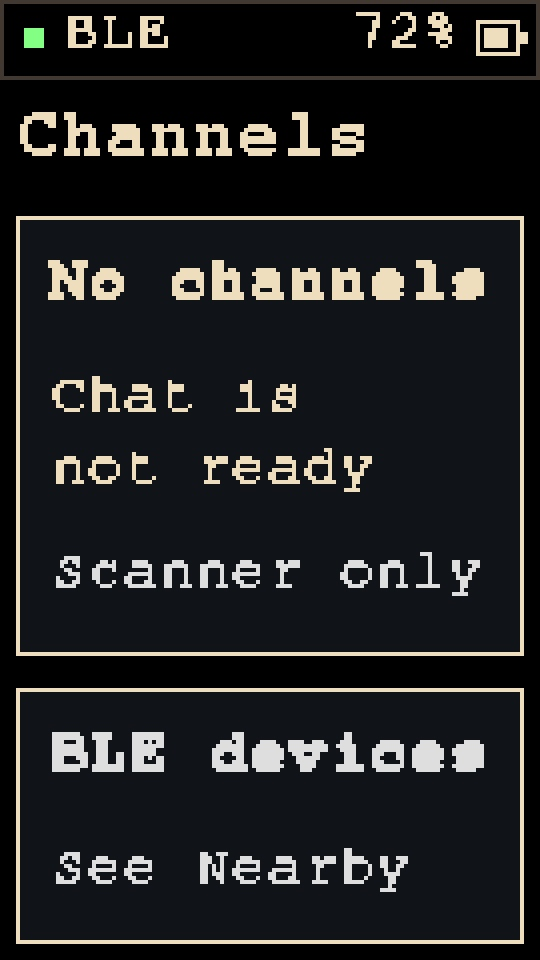
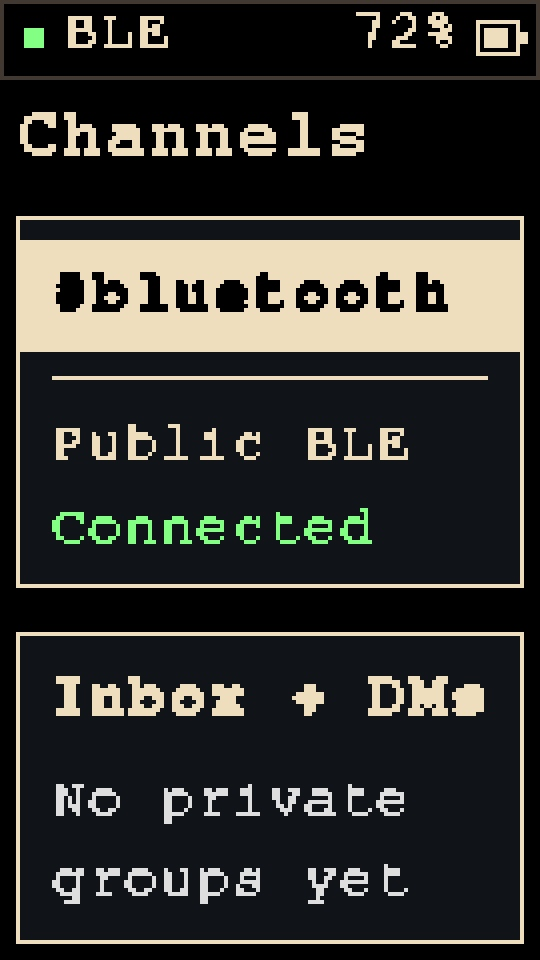
docs: refresh device screen previews from live UI drawing code
- Restore the preview harness after mesh and framebuffer integration.
- Export updated JPEGs with clearly simulated data and a reproducible macOS script.
- Show the current inbox, public channel, bot controls and diagnostics layouts.

Changed region(s): [[0.0296, 0.25, 0.9778, 0.9688]]

diff --git a/test/ui_preview.cpp b/test/ui_preview.cpp
@@ -2,6 +2,11 @@
 #include <cassert>
 #include <fstream>
 namespace stick {
+bool transportReady(){return true;}
+size_t transportLinks(){return 1;}
+uint32_t transportDrops(){return 0;}
+const char* transportStatus(){return "Connected";}
+bool clockRtc(){return true;}
 bool scannerActive() { return true; }
 bool scannerFault() { return false; }
 uint32_t scannerDrops() { return 2; }
@@ -14,6 +19,10 @@ int main(int argc, char** argv) {
   Observation value{};
   std::strcpy(value.address,"AA:BB:CC:DD:EE:FF");std::strcpy(value.name,"Test phone");
   value.rssi=-64;value.network=Network::Mainnet;value.seenAt=1000;peers.observe(value);
+  Identity identity;
+  auto entropy=[](void* out,size_t n){for(size_t i=0;i<n;++i)static_cast<uint8_t*>(out)[i]=uint8_t(i+17);};
+  assert(identity.begin(entropy));mesh().begin(identity,entropy,[](wire::Bytes,uint16_t,uint16_t){return true;});
+  mesh().tick(3000,1800000000000ULL);assert(mesh().sendText("Hello from the Stick"));
   beginUi();battery=72;voltage=4000;
   const Screen pages[]={Screen::Dashboard,Screen::Peers,Screen::Channels,Screen::Messages,Screen::Bot,Screen::Settings,Screen::Splash,Screen::Brightness,Screen::About,Screen::Battery,Screen::Diagnostics};
   const char* names[]={"01-dashboard","02-nearby-peers","03-channels","04-channel-messages","05-infobot","06-settings","07-splash","08-brightness","09-about","10-battery","11-diagnostics"};

diff --git a/docs/screens/README.md b/docs/screens/README.md
@@ -2,7 +2,7 @@
 
 Default language: **English (en-US)**. These software renders come from the current UI drawing calls, pinned FreeMono font bitmaps, and simulated observations/battery values. They are not photographs, device screenshots, or evidence of Bitchat messaging compatibility. The lightweight display fake approximates hardware rendering; confirm the final appearance on the Plus2.
 
-Individual JPEGs: 540 × 960 pixels, a 4× nearest-neighbor enlargement of the 135 × 240 layout. The overview is 2240 × 1110 pixels. Text intentionally retains the pixel grid.
+Individual JPEGs: 540 × 960 pixels, a 4× nearest-neighbor enlargement of the 135 × 240 layout. The overview is 4480 × 2220 pixels. Text intentionally retains the pixel grid.
 
 The current revision restores grouped panels, the green Nearby card and left border, a live-state header square and battery icon, native 16px bold/14px compact FreeMono text, and high-contrast selection. Regular-screen navigation footers have been removed. Controls appear only on Start: A confirm, B up, C down, hold B back. C-long retains power behavior.
 
@@ -28,11 +28,11 @@ The current revision restores grouped panels, the green Nearby card and left bor
 
 ## Messages
 
-![Messaging unavailable](04-channel-messages.jpg)
+![Simulated public message reader](04-channel-messages.jpg)
 
 ## InfoBot
 
-![InfoBot unavailable](05-infobot.jpg)
+![InfoBot controls and authentication state](05-infobot.jpg)
 
 ## Settings
 
@@ -73,3 +73,7 @@ swift -module-cache-path /tmp/bitchat-swift-cache tools/export-preview-jpegs.swi
 ```
 
 All eleven views use the actual drawing code. Simulated measurements are confined to the host harness; the firmware never seeds its observation table with mock peers.
+
+## Reproduce exports
+
+After installing the pinned PlatformIO dependencies, run `sh tools/render-device-previews.sh` on macOS. It renders the real UI calls using the test display, a simulated observation/battery and synthetic outgoing public text, then updates the JPEGs. No message is transmitted and no real identity or conversation is embedded. These previews intentionally do not claim Android/iOS interoperability.
